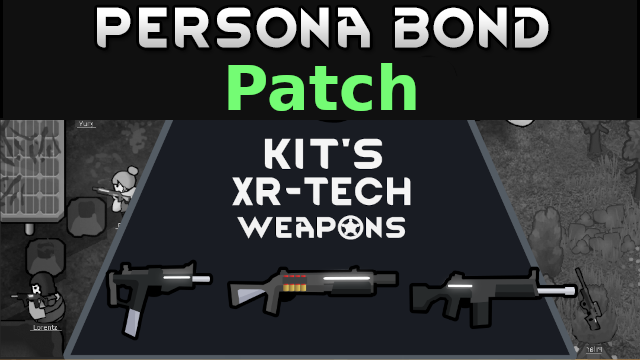
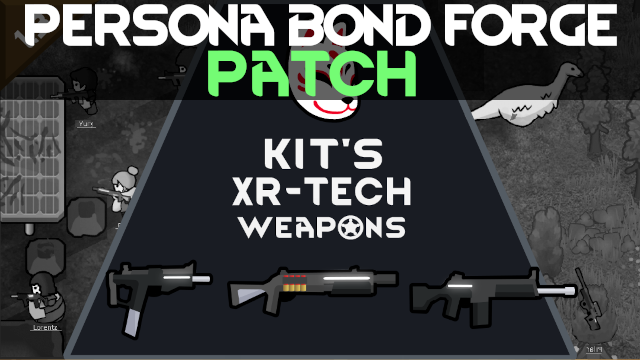
Update Preview.png and README.md

Changed region(s): [[0.0, 0.0, 1.0, 0.3361], [0.0, 0.2139, 0.2812, 0.3361]]

diff --git a/README.md b/README.md
@@ -2,6 +2,14 @@
 
 ![](https://github.com/Daria40K/Persona-Bond-Patch-for-Kits-XR-Tech/blob/main/About/Preview.png)
 
+## Required Mods
+- [Persona Bond Forge](https://steamcommunity.com/workshop/filedetails/?id=2178003816) (Steam)
+- [Kit's XR-Tech Weapons](https://steamcommunity.com/sharedfiles/filedetails/?id=2438098136) (Steam)
+
+## Download
+- [Steam](https://steamcommunity.com/sharedfiles/filedetails/?id=2755060726)
+- [GitHub](https://github.com/Daria40K/Persona-Bond-Patch-for-Kits-XR-Tech/releases)
+
 ## Weapons Patch
 - XR pistol
 - XR assault rifle
